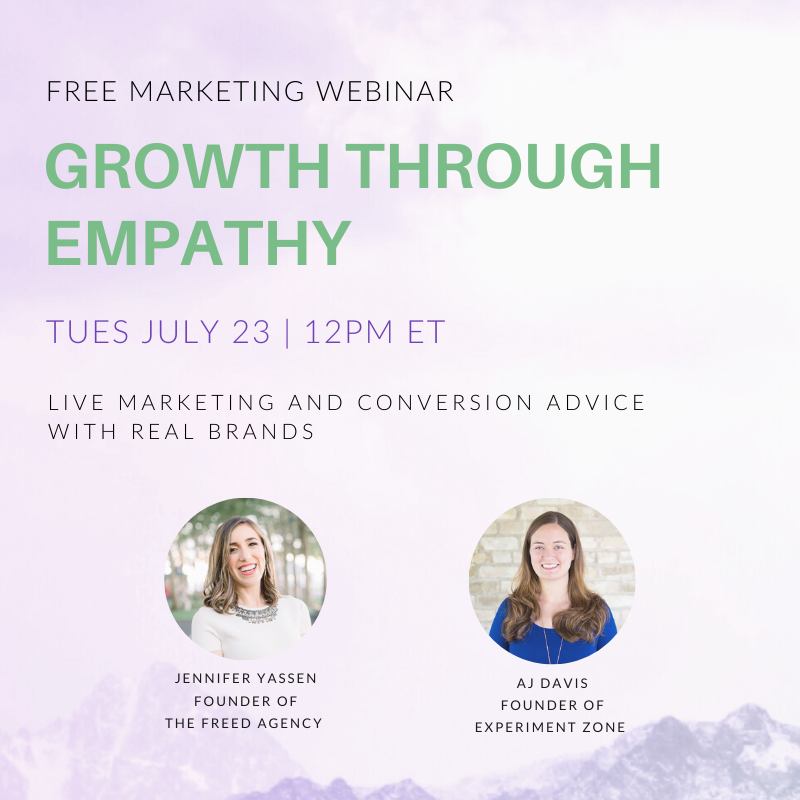
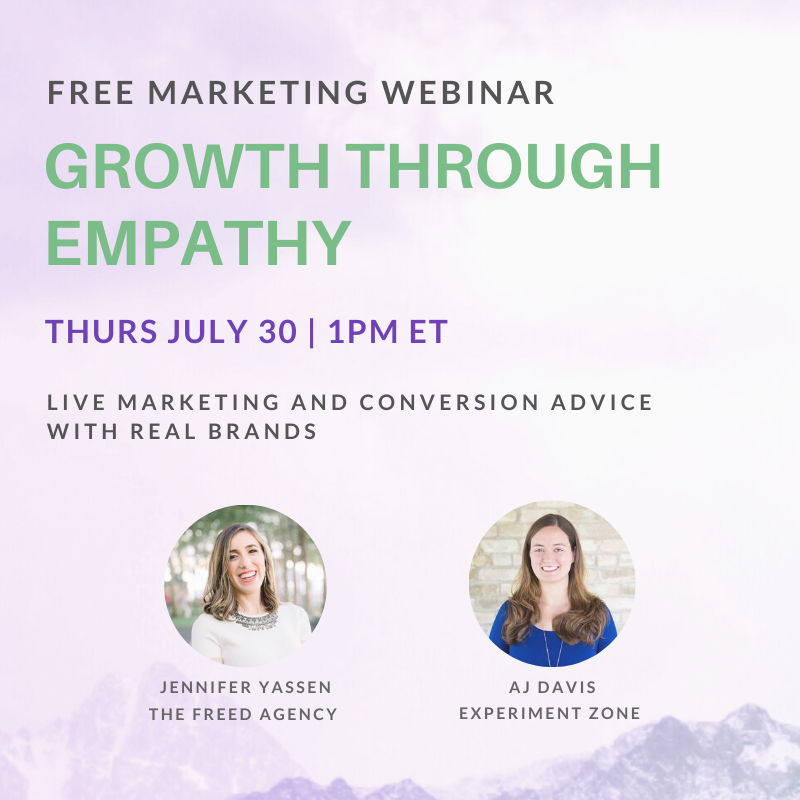
July 30 updates

diff --git a/collections/_work/july-webinar.md b/collections/_work/july-webinar.md
@@ -8,7 +8,7 @@ heroHeading: "July: Designooks & DIG Labs"
 heroSubHeading: "Memorata haberet sepulcrales gentisque dum sic."
 heroBackground: "assets/images/dog-ez.png"
 image: "assets/images/dog-ez.png"
-urlLink: "https://us02web.zoom.us/meeting/register/tZUodu6vqjspHtw7BIq-CLRJlasq7p1YDaMr"
+urlLink: "https://us02web.zoom.us/meeting/register/tZIoce2oqj0sEtRo5u598Hi2aBSBLZ37XMdc"
 ---
 
 Join for an interactive & informative conversation! We'll be taking audience questions throughout and we are look forward to meeting you.
